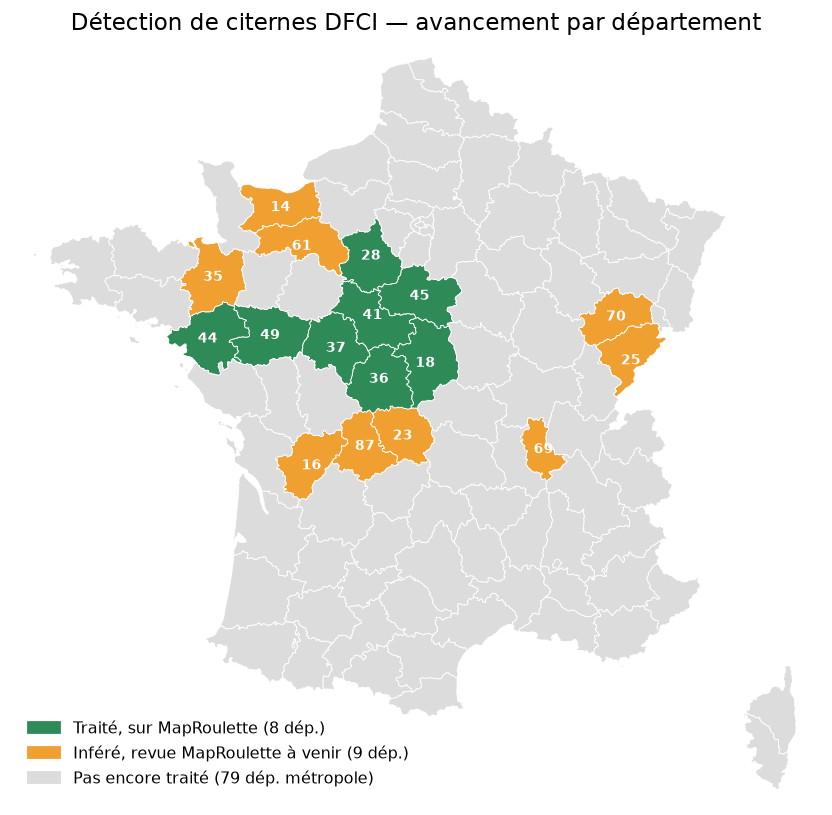
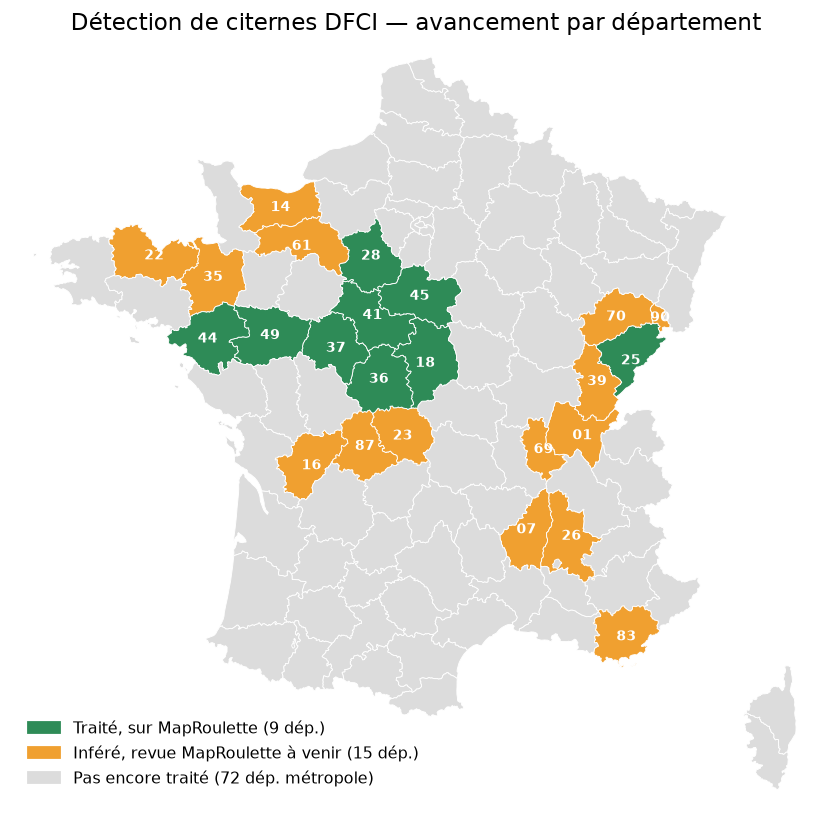
docs: carte d'avancement — Doubs (25) revu sur MapRoulette ; docs/termines.txt pour les départements revus hors rattrapage

diff --git a/scripts/carte_avancement.py b/scripts/carte_avancement.py
@@ -3,7 +3,8 @@
 Colore en vert les départements traités (sur MapRoulette, repassés avec le modèle
 actuel), en orange ceux dont l'inférence est terminée mais pas encore publiée, et
 laisse les autres en gris. Les traités sont lus dans
-`inference_rattrapage/recap_rattrapage.txt`, les inférés dans les dossiers
+`inference_rattrapage/recap_rattrapage.txt` et `docs/termines.txt` (revue
+MapRoulette terminée hors rattrapage), les inférés dans les dossiers
 `inference_<insee>_2026` / `_standard` ; les contours sont téléchargés une
 fois (GeoJSON simplifié) puis mis en cache dans `data/departements.geojson`.
 
@@ -68,13 +69,21 @@ def lire_recap(path: Path) -> dict[str, int]:
     return out
 
 
+def lire_termines(path: Path) -> set[str]:
+    """Codes INSEE listés un par ligne (lignes vides et `#` ignorées)."""
+    if not path.exists():
+        return set()
+    return {l.split("#")[0].strip() for l in path.read_text(encoding="utf-8").splitlines()
+            if l.split("#")[0].strip()}
+
+
 def anneaux(geom: dict):
     polys = [geom["coordinates"]] if geom["type"] == "Polygon" else geom["coordinates"]
     for poly in polys:
         yield poly[0]
 
 
-def dessiner(contours: dict, taches: dict[str, int], inferes: set[str], out: Path) -> None:
+def dessiner(contours: dict, taches: set[str], inferes: set[str], out: Path) -> None:
     fig, ax = plt.subplots(figsize=(8, 8))
     for f in contours["features"]:
         code = f["properties"]["code"]
@@ -110,18 +119,21 @@ def dessiner(contours: dict, taches: dict[str, int], inferes: set[str], out: Pat
 def main() -> None:
     ap = argparse.ArgumentParser(description=__doc__)
     ap.add_argument("--recap", default="inference_rattrapage/recap_rattrapage.txt")
+    ap.add_argument("--termines", default="docs/termines.txt",
+                    help="départements revus sur MapRoulette hors rattrapage")
     ap.add_argument("--contours", default="data/departements.geojson")
     ap.add_argument("--racine", default=".", help="dossier contenant les inference_<insee>_*")
     ap.add_argument("--out", default="docs/avancement.png")
     a = ap.parse_args()
-    taches = lire_recap(Path(a.recap))
-    if not taches:
+    recap = lire_recap(Path(a.recap))
+    if not recap:
         raise SystemExit(f"Aucun département lu dans {a.recap}")
+    taches = set(recap) | lire_termines(Path(a.termines))
     out = Path(a.out)
     out.parent.mkdir(parents=True, exist_ok=True)
-    inferes = lire_inferes(Path(a.racine), set(taches))
+    inferes = lire_inferes(Path(a.racine), taches)
     dessiner(charger_contours(Path(a.contours)), taches, inferes, out)
-    print(f"{out} : {len(taches)} sur MapRoulette, {len(inferes)} inféré(s) : {sorted(inferes)}")
+    print(f"{out} : {len(taches)} sur MapRoulette {sorted(taches)}, {len(inferes)} inféré(s) : {sorted(inferes)}")
 
 
 if __name__ == "__main__":

diff --git a/README.md b/README.md
@@ -11,9 +11,10 @@ Les candidats détectés sont revus dans le
 
 ![Avancement de la détection par département](docs/avancement.png)
 
-8 départements sur 96 traités et repassés avec le modèle actuel (18, 28, 36, 37, 41, 44, 45, 49) ;
-9 autres (14, 16, 23, 25, 35, 61, 69, 70, 87) sont inférés en double détection (ortho 2026 + ortho habituelle), leur revue
-MapRoulette est à venir. Pour régénérer l'image :
+9 départements sur 96 traités avec le modèle actuel et revus sur MapRoulette (18, 25, 28, 36, 37, 41, 44, 45, 49) ;
+15 autres (01, 07, 14, 16, 22, 23, 26, 35, 39, 61, 69, 70, 83, 87, 90) sont inférés en double détection (ortho 2026 +
+ortho habituelle), leur revue MapRoulette est à venir. Un département revu hors rattrapage s'ajoute dans
+`docs/termines.txt`. Pour régénérer l'image :
 
     python scripts/carte_avancement.py --out docs/avancement.png
 
